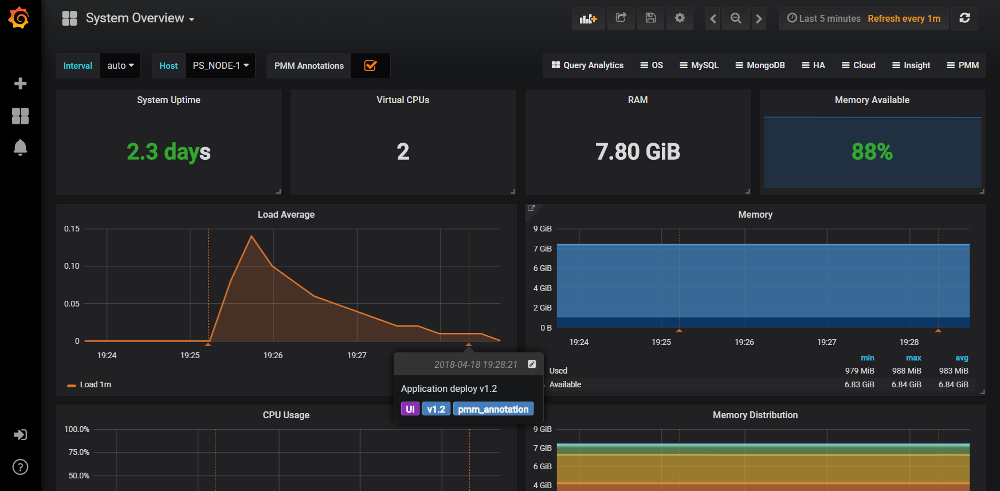
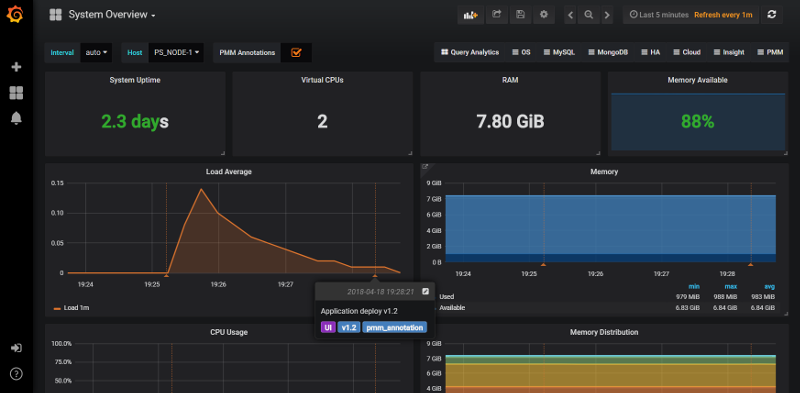
Update with reduced images and small fixes

diff --git a/doc/source/release-notes/1.10.0.rst b/doc/source/release-notes/1.10.0.rst
@@ -18,10 +18,12 @@ notable improvements worth highlighting:
   |pmm-admin.annotate|
 - `Grafana 5.0`_ - Improved visualization effects
 - `Switching between Dashboards`_ - Now switching dashboards
-- `New PXC Galera Replication Latency Graphs`_ - Added Galera Replication Latency graphs on PXC
+- `New PXC Galera Replication Latency Graphs`_ - Added Galera Replication
+  Latency graphs on PXC
   Overview dashboard with consistent colours
 
-The `issues in the release <https://confluence.percona.com/display/PMM/Release+Notes+1.9.0#ReleaseNotes1.9.0-issuesinrelease>`_ includes 5 new features & improvements, and 6 bugs fixed.
+The `Issues in this release`_ includes 4 new features & improvements, and 8
+bugs fixed.
 
 Annotations
 ================================================================================
@@ -51,13 +53,13 @@ interface impacted:
 
 Using the optional |opt.tags| option allows you to filter which Annotations are
 displayed on the dashboard via a toggle option. Read more about Annotations
-utilization in the Documentation.
+utilization in the `Documentation <https://www.percona.com/doc/percona-monitoring-and-management/using.html#using-annotations-to-mark-important-application-events>`_.
 
 Grafana 5.0
 ================================================================================
 
 We're extremely pleased to see Grafana ship 5.0 and we were fortunate enough to
-be at Grafanacon, including Percona's very own `@Dimitri Vanoverbeke <https://confluence.percona.com/display/~dimitri.vanoverbeke>`_ (Dim0) who presented What we Learned Integrating
+be at Grafanacon, including Percona's very own `@Dimitri Vanoverbeke <https://www.percona.com/blog/author/dimitri-vanoverbeke/>`_ (Dim0) who presented What we Learned Integrating
 Grafana and Prometheus!
 
 .. raw:: html
@@ -103,7 +105,6 @@ New Features and Improvements
   *PXC/Galera Cluster overview* dashboard.
 - :pmmbug:`2295`: Improve colour selection on the *PXC/Galera Cluster Overview*
   dashboard
-- :pmmbug:`2371`: Add back host passing when switching between Dashboards
 - :pmmbug:`2330`: Application Annotations
 - :pmmbug:`2332`: Grafana 5 update
 
@@ -120,13 +121,14 @@ Bug fixes
 - :pmmbug:`2364`: QPS are wrong in QAN
 - :pmmbug:`2388`: Query Analytics does not render fingerprint section in some
   cases
+- :pmmbug:`2371`: Pass host when switching between Dashboards
 
 How to get PMM
 ================================================================================
 
 |pmm| is available for installation using three methods:
 
-* On `Docker Hub <https://hub.docker.com/r/percona/pmm-server/>`_- ``docker pull
+* On `Docker Hub <https://hub.docker.com/r/percona/pmm-server/>`_ - ``docker pull
   percona/pmm-server`` - `Documentation <https://www.percona.com/doc/percona-monitoring-and-management/deploy/server/docker.html>`_
 * `AWS Marketplace <https://aws.amazon.com/marketplace/pp/B077J7FYGX>`_ - `Documentation <https://www.percona.com/doc/percona-monitoring-and-management/deploy/server/ami.html>`_
 * `Open Virtualization Format (OVF) <https://www.percona.com/downloads/pmm/>`_ - `Documentation <https://www.percona.com/doc/percona-monitoring-and-management/deploy/server/virtual-appliance.html>`_
